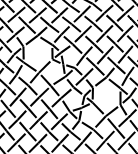
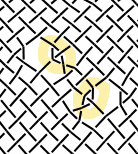
text fine tuning

Changed region(s): [[0.5217, 0.4935, 0.8116, 0.7792], [0.2609, 0.2078, 0.5507, 0.4935]]

diff --git a/docs/snow-mix/droste/index.md b/docs/snow-mix/droste/index.md
@@ -29,7 +29,7 @@ More freedom
 With two [droste](Glossary#droste)  steps you have way more options
 to combine snowflakes than with the mixer.
 The mixer only allows to assign stitches to one or four snowflakes.
-The price: more steps to apply a predefined recipe,
+The price for the freedom: more steps to apply a predefined recipe,
 that takes only two clicks with the mixer.
 
 How to
@@ -37,12 +37,13 @@ How to
 
 ![](first-thread.png?align=right)
 You can select any pattern from any catalogue and use plaits with three threads as stitches,
-for example _lclc_ or _rcrc_ between other stitches (or not). This could look as shown on the right.
+for example _lclc_ or _rcrc_ between other stitches (or not). 
+This looks like highlighted in the image on the right.
 
-Let us take a mixer recipe from the table below as an example.  
+Let us take a mixer recipe from the [table](#recipes) as an example.  
 ![](321-a.png) which is:  _lclc; tc,rclcrc,clcrcl,ct_ and flipped: _rcrc; tc,lcrclc,crclcr,ct_    
 Apply the _lclc_ and/or _rcrc_ stitches on the [stitches] page.
-You can apply the recipes after following the link to _thread diagram as pair diagram_.
+You can apply the rest of the recipe after following the link to _thread diagram as pair diagram_.
 The first droste step then should look like below. 
 
 [stitches]: /GroundForge/stitches?patchWidth=18&patchHeight=35&tile=5-5-5-,-5-5-5,5-5-5-,-5-5-5,5-5-5-,-5-5-5&shiftColsSW=0&shiftRowsSW=6&shiftColsSE=6&shiftRowsSE=6&e1=ctc&c1=ctc&a1=ctc&f2=ctc&d2=ctc&b2=ctc&e3=ctc&c3=crcr&a3=ctc&f4=ctc&d4=ctc&b4=ctc&e5=clcl&c5=ctc&a5=ctc&f6=ctc&d6=ctc&b6=ctc&&droste3=tc,lcrclc,crclcr,ct
@@ -51,7 +52,7 @@ The first droste step then should look like below.
 [show](/GroundForge/droste?patchWidth=18&patchHeight=35&tile=5-5-5-,-5-5-5,5-5-5-,-5-5-5,5-5-5-,-5-5-5&shiftColsSW=0&shiftRowsSW=6&shiftColsSE=6&shiftRowsSE=6&e1=ctc&c1=ctc&a1=ctc&f2=ctc&d2=ctc&b2=ctc&e3=ctc&c3=crcr&a3=ctc&f4=ctc&d4=ctc&b4=ctc&e5=clcl&c5=ctc&a5=ctc&f6=ctc&d6=ctc&b6=ctc&&droste3=tc,lcrclc,crclcr,ct&droste2=,c30=tc,c31=rclcrc,c32=clcrcl,c33=ct,e50=tc,e51=lcrclc,e52=crclcr,e53=ct)
 
 Compare the text box of the screenshot with the recipes.
-You don't need to edit the bif text box, type the desired stitch 
+You don't need to edit the big text box, type the desired stitch 
 in the little test box below the stitches gallery,
 then click a stitch in the pair diagram to apply.
 As this page can be very slow, the diagrams are only re-rendered
